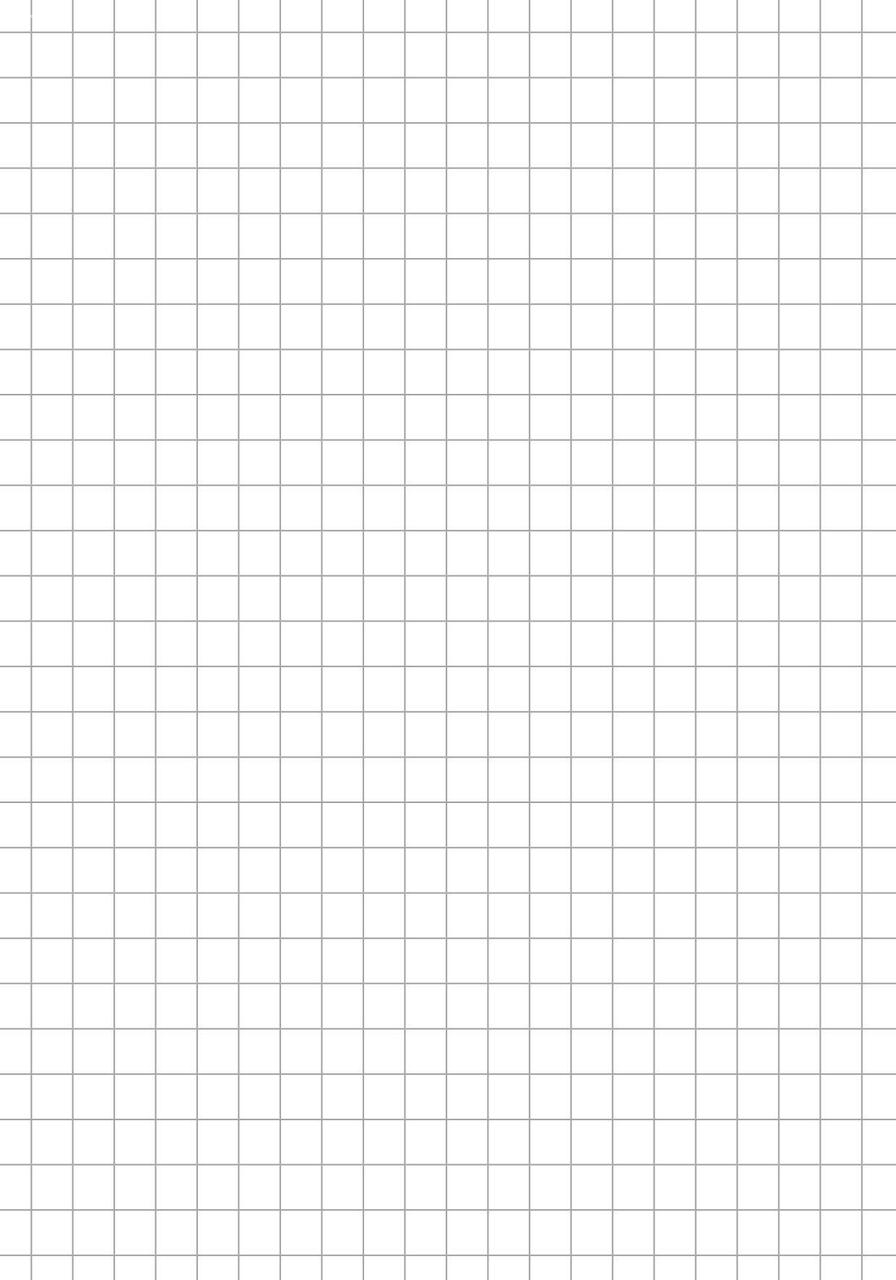
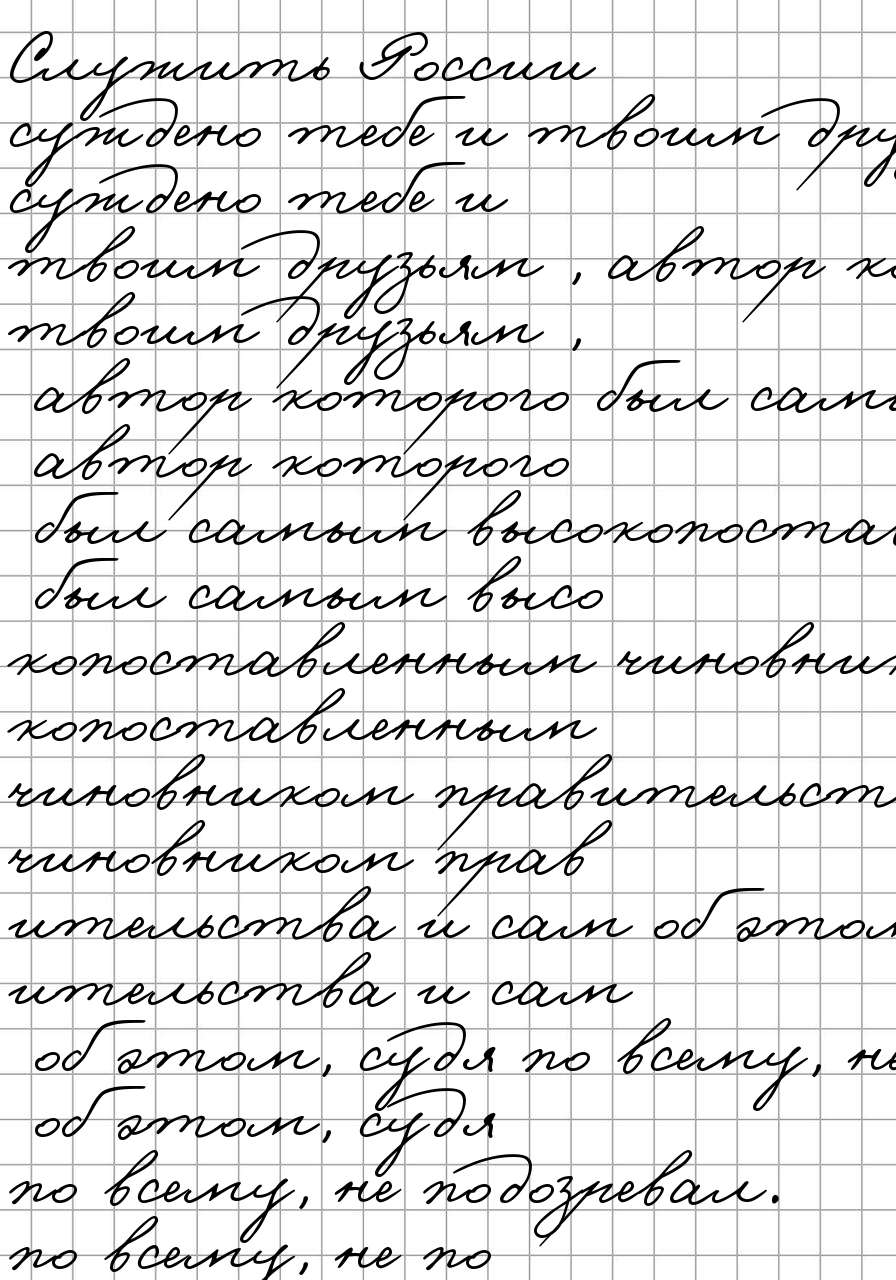
минорные подправки

diff --git a/Coursework/Server_py/main.py b/Coursework/Server_py/main.py
@@ -3,7 +3,7 @@ import json
 import requests
 from flask import *
 from PIL import Image, ImageDraw, ImageFont
-import io
+
 
 class Buffer_msg():
     def __init__(self, *args):
@@ -17,7 +17,7 @@ class Buffer_msg():
         return tempo
 
     def release(self):
-        self.buff.clear() # временно это просто список
+        self.buff.clear()
         return
 
     def __iadd__(self, other):
@@ -47,7 +47,7 @@ def index():
         return ""
 
     print(1111111111111)
-    res = requests.post("https://pelevin.gpt.dobro.ai/generate/", json={"prompt" : req_res["user_text"], "length" : req_res["len"]}) #разобраться
+    res = requests.post("https://pelevin.gpt.dobro.ai/generate/", json={"prompt" : req_res["user_text"], "length" : req_res["len"]})
     print(2222222222222)
     #print(res.content)
     #print(res.text)
@@ -79,7 +79,7 @@ def answering():
 def receive_img():
     global new_imgs
     req_res = request.get_json()
-    print("123")
+    print(req_res)
 
     t_r = Image.open("Bg_best.png") #продолжить и закончить
 
@@ -87,24 +87,38 @@ def receive_img():
     text = req_res["to_handwrite"]
     fsize = req_res["f_size"]
 
+    print(text)
+
     text_f = text
+    text_f_list = []
+    i = 0
 
-    for i in range(len(text)):
-        if round(2.5 * i * fsize * 1.3333333333333333 / 4) > t_r.width:
-            text_f = text[0:i] + '\n' + text[i+1:len(text)]
+    while i < len(text_f):
+        if round(2.5 * i * fsize * 5 * 1.3333333333333333 / 4) > (t_r.width - 15): # рассчет длины рукописной строки.
+            text_f_list.append(text_f[0:i] )
+            #text_f_list.append()
 
-    font = ImageFont.truetype("Gogol.ttf", size=fsize)
-    idraw.text((10, 10), text_f, font=font)
+            text_f_list.append(text_f[i:len(text_f)])
+            text_f = text_f[i:len(text_f)]
+            i = 0
+
+        i += 1
+
+    font = ImageFont.truetype("Gogol.ttf", size=fsize * 5)
+    text_f_list = "\n".join(text_f_list)
+    print(text_f_list)
+
+    #for line in range(len(text_f_list)):
+    idraw.text((10, 20), text_f_list, (0, 0, 0), font=font)
 
     new_imgs += 1
-    filename = f"result{new_imgs}.png"
-    t_r.save(filename)
+    t_r.save(f"result{new_imgs}.png")
 
-    return send_file(filename, mimetype='image/png')
+    return send_file(f"result{new_imgs}.png", mimetype='image/png')
 
 #@server.route("/g", methods=["GET"])
 #def index_2():
-#    t_r = Image.open("bg_right.png") #продолжить и закончить
+#    t_r = Image.open("bg_right.png")
 #    t_l = Image.open("bg_left.png")
 
 #    idraw = ImageDraw.Draw(t_r)
@@ -122,6 +136,3 @@ def receive_img():
 
 if __name__ == "__main__":
     server.run(debug=True)
-
-"""Я бы успел реализовать намного более прекрасную программу, если бы не пришлось писать многочисленные непрофильные конспекты и контрольные.
-В любом случае, я буду дорабатывать до того момента, пока не смогу полноценно пользоваться сам."""

diff --git a/Coursework/Client_cpp/mainwindow.cpp b/Coursework/Client_cpp/mainwindow.cpp
@@ -7,6 +7,8 @@ MainWindow::MainWindow(QWidget *parent)
     , ui(new Ui::MainWindow)
 {
     ui->setupUi(this);
+//    QIcon iconka;
+//    iconka.addFile("icon.ico");
     connect(ui->pushButton, SIGNAL(clicked()), this, SLOT(get_gen_msg()));
     connect(ui->textEdit, SIGNAL(textChanged()), this, SLOT(count_symb()));
     connect(ui->textEdit, SIGNAL(textChanged()), this, SLOT(count_word()));
@@ -16,6 +18,8 @@ MainWindow::MainWindow(QWidget *parent)
     connect(ui->pushButton_2, SIGNAL(clicked()), this, SLOT(get_gen_image()));
     connect(ui->pushButton_6, SIGNAL(clicked()), this, SLOT(clear_text_2()));
     connect(ui->pushButton_5, SIGNAL(clicked()), this, SLOT(save_img()));
+    this->setWindowTitle("Text King v1.0.0a");
+//    this->setWindowIcon(iconka);
 }
 
 MainWindow::~MainWindow()
@@ -26,7 +30,6 @@ MainWindow::~MainWindow()
 void MainWindow::onfinish_post_text(QNetworkReply *reply){
     get_res = reply->readAll();
     ui->label_4->setText("");
-    //user_text_fromrep = QString(get_res);
 
     json_f_post = QJsonDocument::fromJson(get_res);
 
@@ -158,9 +161,6 @@ void MainWindow::onfinish_get_text(QNetworkReply* reply){
     }
     //exit(-1234);
 
-//    user_text_fromrep_temp = user_text_fromrep_temp.left(user_text_fromrep_temp.size() - 1);
-//    user_text_fromrep_temp = user_text_fromrep_temp.right(user_text_fromrep_temp.size() - 1);
-
     user_text = previous_ut + user_text_fromrep_temp;
     ui->textEdit->setPlainText(user_text);
 
@@ -194,10 +194,11 @@ void MainWindow::onfinish_get_image(QNetworkReply* reply){
 
     if (get_res == ""){
         ui->label_4->setText("Повторите попытку");
+        return;
     }
 
     ui->label_4->setText("");
-    user_pic = QImage(get_res);
+    user_pic.loadFromData(get_res, "PNG");
 
     qDebug() << user_pic.size();
 
@@ -229,6 +230,11 @@ void MainWindow::get_gen_image(){
 
 void MainWindow::save_img(){
     QString fileName = QFileDialog::getSaveFileName(this, "Save Image", "", "Допустимые форматы (*.png)");
-    user_pic.save(fileName);
-    ui->label_4->setText("Ошибка. Попробуйте позже.");
+    if (fileName.size()){
+        user_pic.save(fileName);
+    }
+
+    else{
+        ui->label_4->setText("Страница не сохранена");
+    }
 }

diff --git a/Coursework/Server_py/script_2.py b/Coursework/Server_py/script_2.py
@@ -1,0 +1,11 @@
+from PIL import Image
+from PIL import ImageFont
+from PIL import ImageDraw 
+
+img = Image.open("Bg_best.jpg")
+draw = ImageDraw.Draw(img)
+# font = ImageFont.truetype(<font-file>, <font-size>)
+font = ImageFont.truetype("Gogol.ttf", 120)
+# draw.text((x, y),"Sample Text",(r,g,b))
+draw.text((50, 20),"Симпл димпл\nИли\nПопыт???",(0,0,0),font=font)
+img.save('sample-out.jpg')

diff --git a/Coursework/Client_cpp/mainwindow.h b/Coursework/Client_cpp/mainwindow.h
@@ -6,11 +6,12 @@
 #include <QNetworkRequest>
 #include <QNetworkReply>
 #include <QFileDialog>
-#include "QJsonDocument"
-#include "QJsonObject"
-#include "QByteArray"
+#include <QJsonDocument>
+#include <QJsonObject>
+#include <QByteArray>
 #include <string>
-#include "QImage"
+#include <QImage>
+#include <QIcon>
 
 QT_BEGIN_NAMESPACE
 namespace Ui { class MainWindow; }
